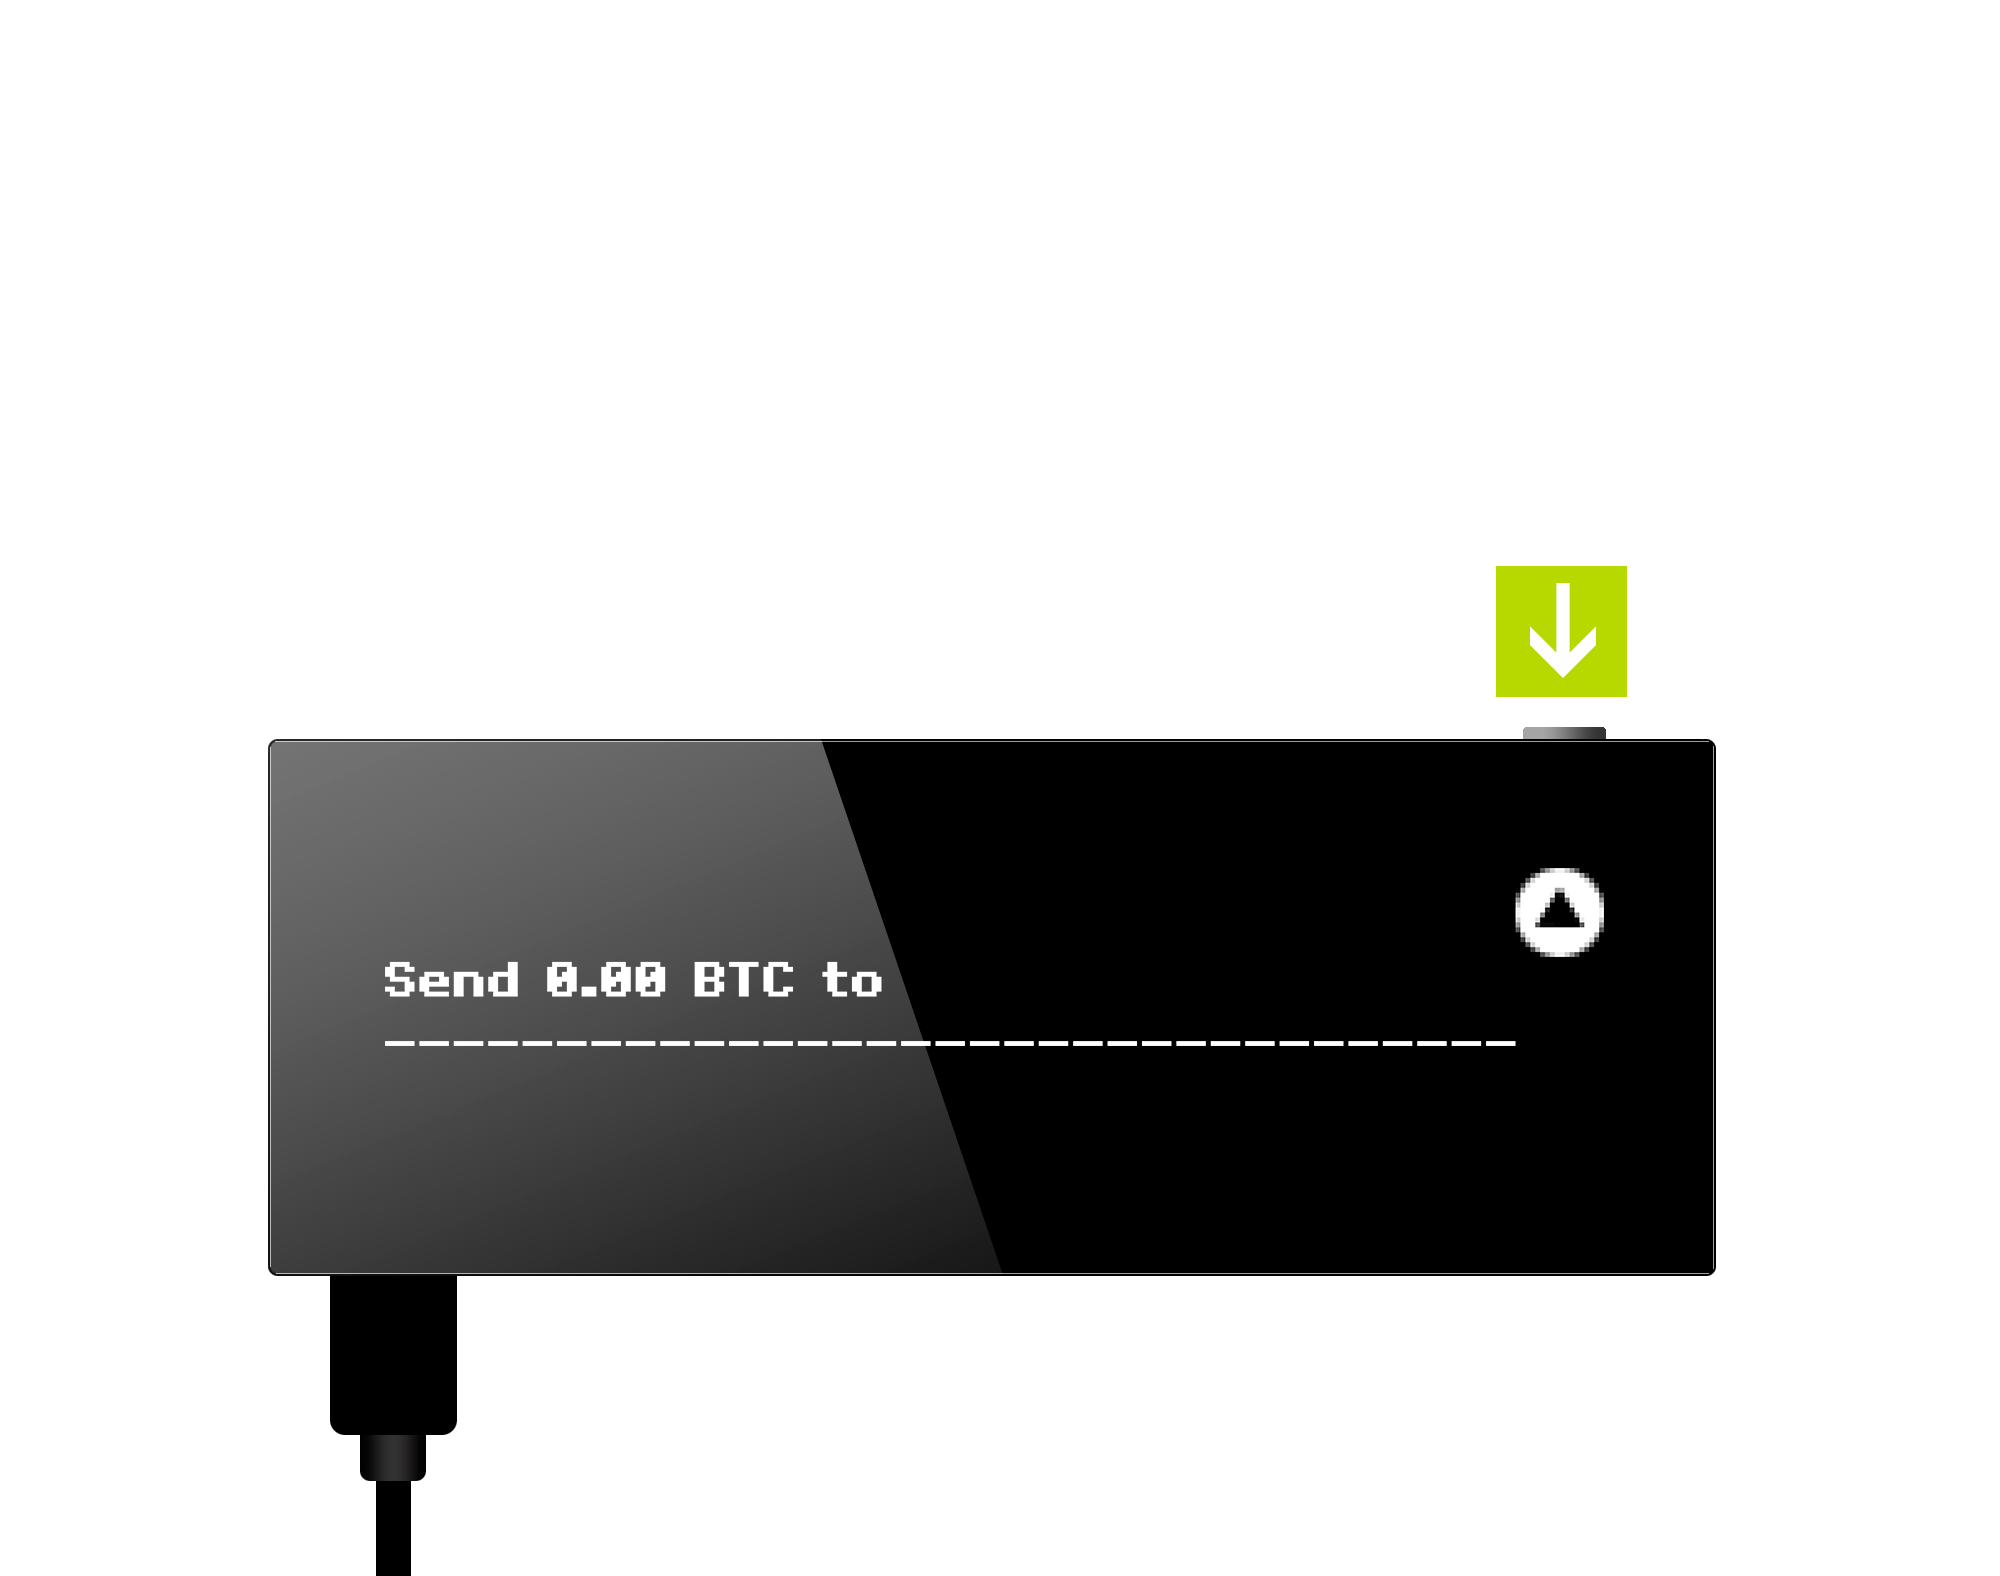
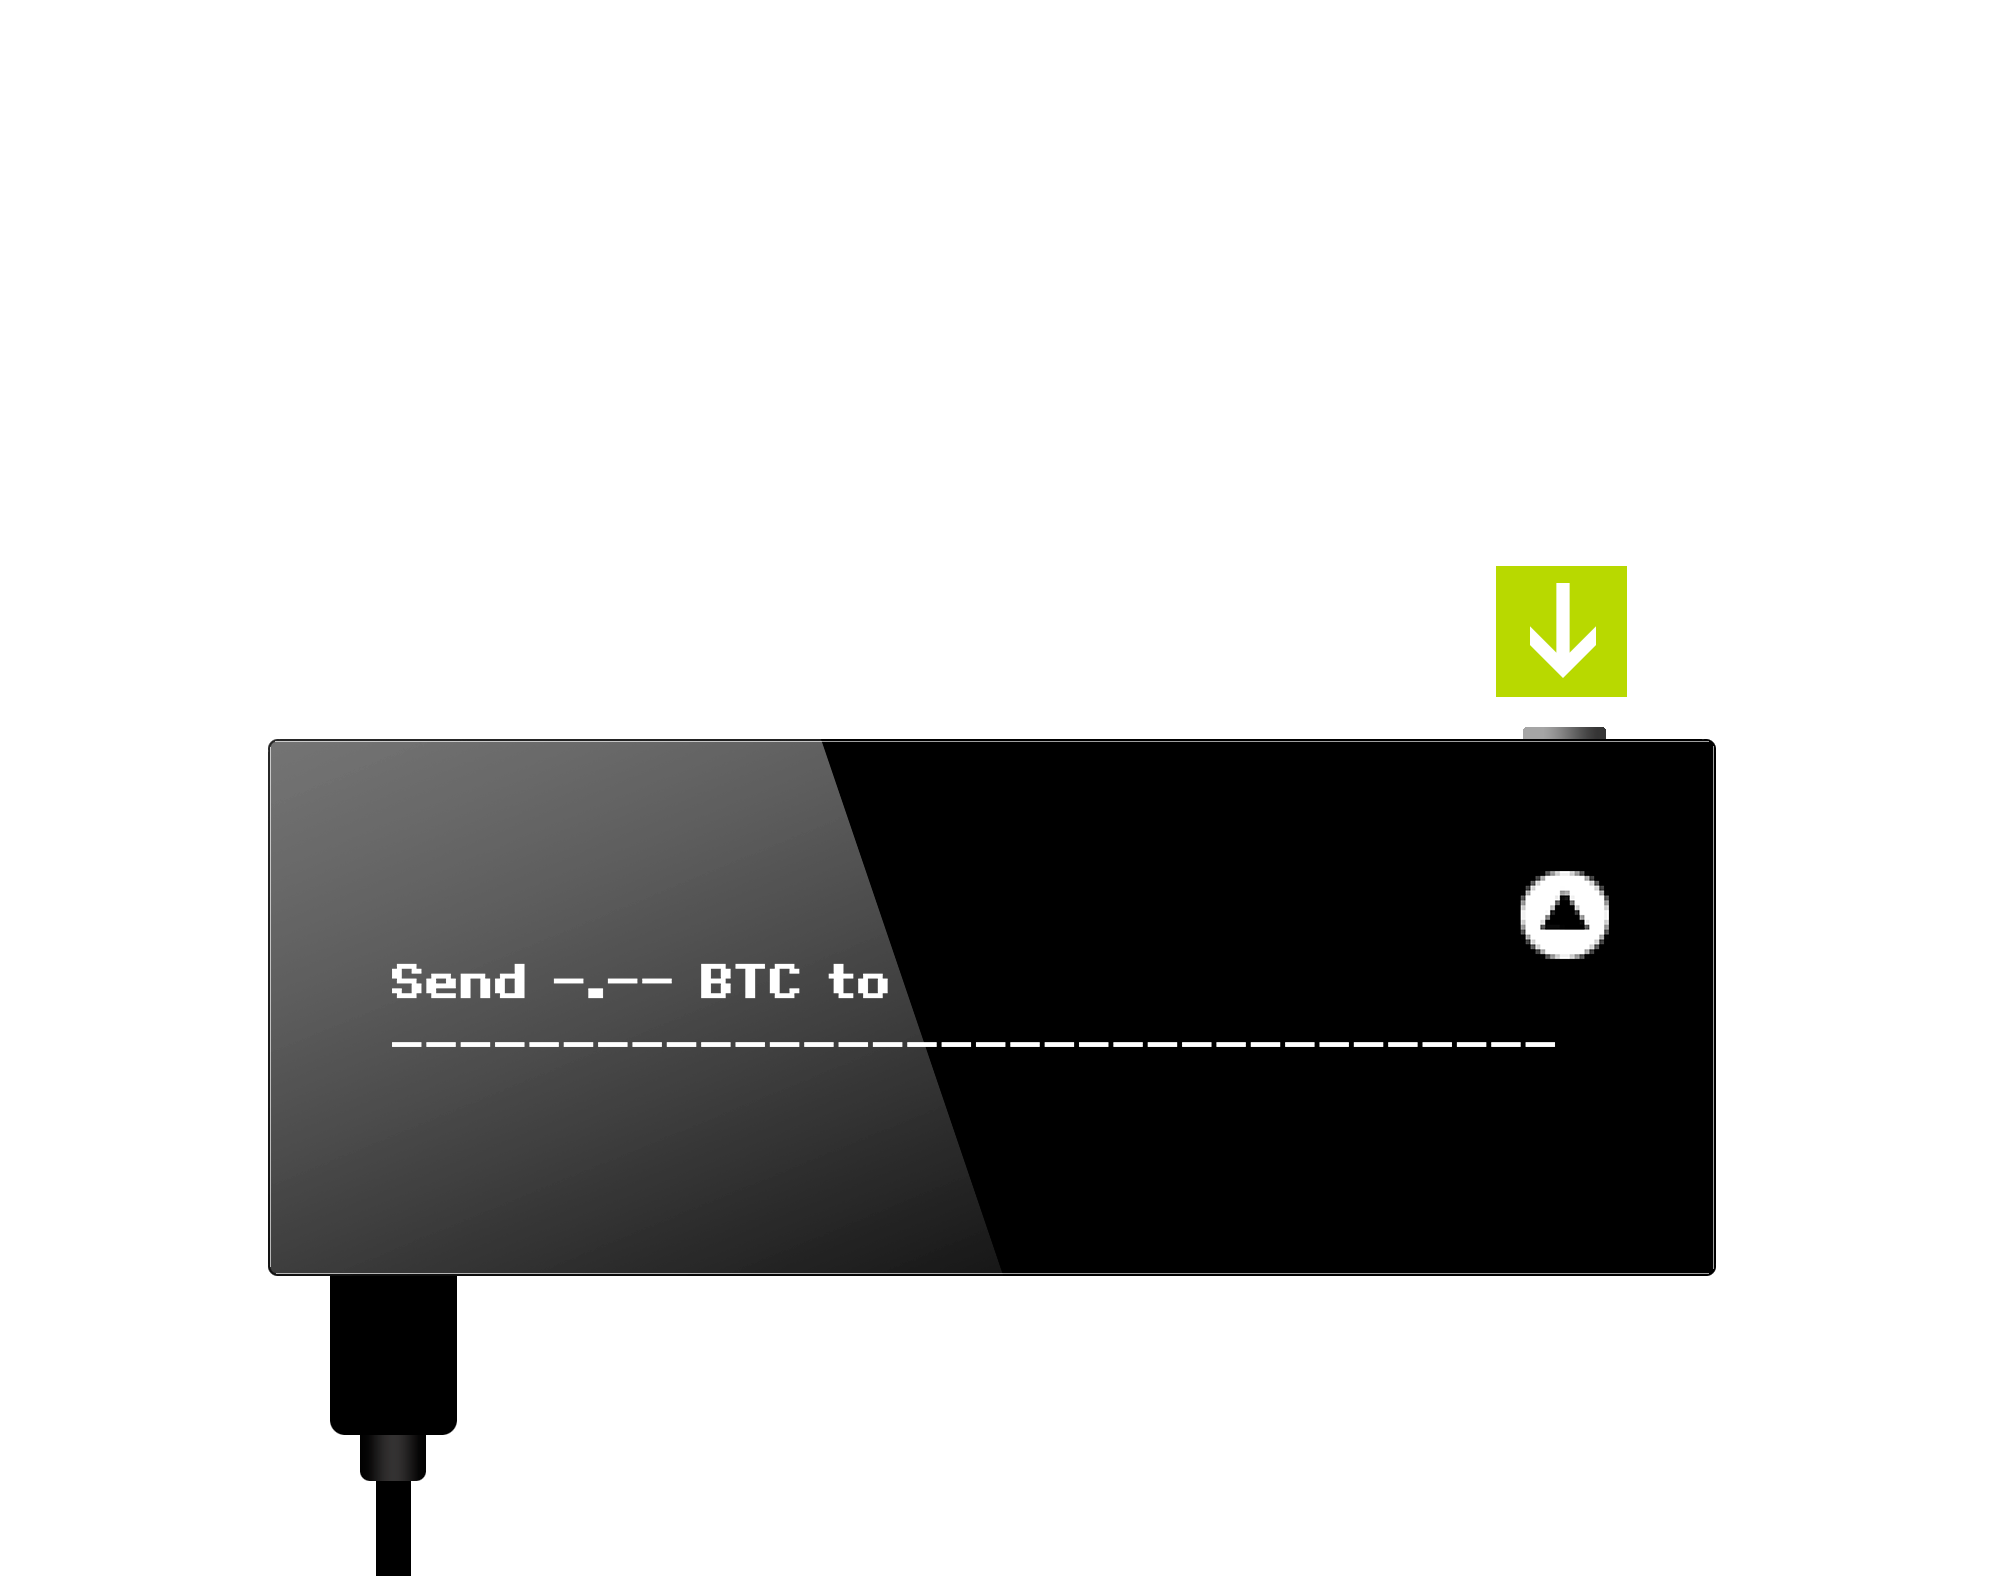
styled transactions

Changed region(s): [[0.186, 0.5907, 0.434, 0.6529], [0.744, 0.5596, 0.806, 0.6218]]

diff --git a/src/app/buttonRequest/signTx.tpl.html b/src/app/buttonRequest/signTx.tpl.html
@@ -3,28 +3,13 @@
         <back-button class="button-left header-button" action="onCancel()"></back-button>
     </header>
 
-    <div class="content" ng-class="buttonRequestType">
-        <div class="device-screen">
-            <div class="button-press-icon fa fa-circle"><div class="fa fa-sort-up"></div></div>
-            <h2>
-                <div>
-                    <span class="cornflower-txt"><b>Transaction Summary</b></span><br>
-                    Total of
-                    <span ng-bind="amount" obscure="fa-circle"></span>
-                    BTC leaving your wallet,<br>
-                    including a fee of
-                    <span ng-bind="fee" obscure="fa-circle"></span>
-                    BTC.
-                </div>
-            </h2>
+    <div id="transaction" class="content" ng-class="buttonRequestType">
+        <div class="content-confirming-inner">
+            <div class="content-inner-centering">
+                <h2><span class="cornflower-txt">On your <b>KeepKey</b>, confirm transaction summary.</span>
+                    Make sure the details are accurate.</h2>
+            </div>
         </div>
-        <div class="confirmation-instructions">
-            Confirm that you want to send this transaction by pressing the button
-            on Your KeepKey. This is your last chance to cancel the transaction.
-        </div>
-
-        <a class="text-link-button" ng-click="onCancel()">Cancel</a>
+        <a class="text-link-button cancel" ng-click="onCancel()">Cancel</a>
     </div>
-
-    <footer ng-include="'app/footer/footer.tpl.html'"></footer>
 </section>

diff --git a/src/app/buttonRequest/confirmOutput.tpl.html b/src/app/buttonRequest/confirmOutput.tpl.html
@@ -3,22 +3,13 @@
         <back-button class="button-left header-button" action="onCancel()"></back-button>
     </header>
 
-    <div class="content" ng-class="buttonRequestType">
-        <div class="device-screen">
-            <div class="button-press-icon fa fa-circle"><div class="fa fa-sort-up"></div></div>
-            <h2>
-                <div>
-                    Send <span ng-bind="amount" obscure="fa-circle"></span> BTC to<br>
-                    <span ng-bind="destination" obscure="fa-circle"></span>
-                </div>
-            </h2>
+    <div id="send-output" class="content" ng-class="buttonRequestType">
+        <div class="content-confirming-inner">
+            <div class="content-inner-centering">
+                <h2><span class="cornflower-txt">On your <b>KeepKey</b>, confirm the amount and receiving address.</span>
+                Carefully verify that the receiving address matches exactly payee's address.</h2>
+            </div>
         </div>
-        <div class="confirmation-instructions">
-            Confirm the address and amount shown on the screen of your KeepKey are correct
-            by pressing and holding the button
-        </div>
-        <a class="text-link-button" ng-click="onCancel()">Cancel</a>
+        <a class="text-link-button cancel" ng-click="onCancel()">Cancel</a>
     </div>
-
-    <footer ng-include="'app/footer/footer.tpl.html'"></footer>
 </section>

diff --git a/src/styles/main.less b/src/styles/main.less
@@ -569,6 +569,14 @@ body, .h1, .h2, .h3, .h4, .h5, .h6, h1, h2, h3, h4, h5, h6 {
   .device-image('../assets/img/confirm-word-background.png');
 }
 
+#send-output {
+  .device-image('../assets/img/send-background.png');
+}
+
+#transaction {
+  .device-image('../assets/img/transaction-background.png');
+}
+
 #wipe-device {
   .device-image('../assets/img/wipe-device-background.png');
 }
